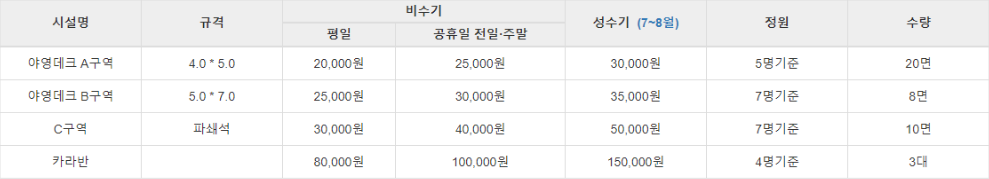
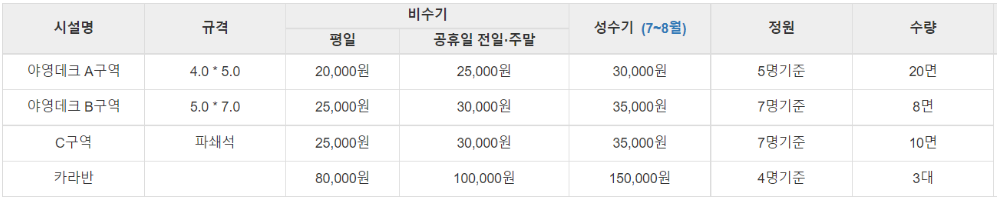
- price image 수정

diff --git a/facility.html b/facility.html
@@ -153,7 +153,7 @@
 
             <div class="col-lg-12 sec-box">
                 <h2>시설 사용료</h2>
-                <img class="MaxIMG" src="./images/facility/table_price.png" alt="가격표">
+                <img class="MaxIMG" src="./images/info/info_img01.png" alt="가격표">
             </div>
         </div>
     </div>
